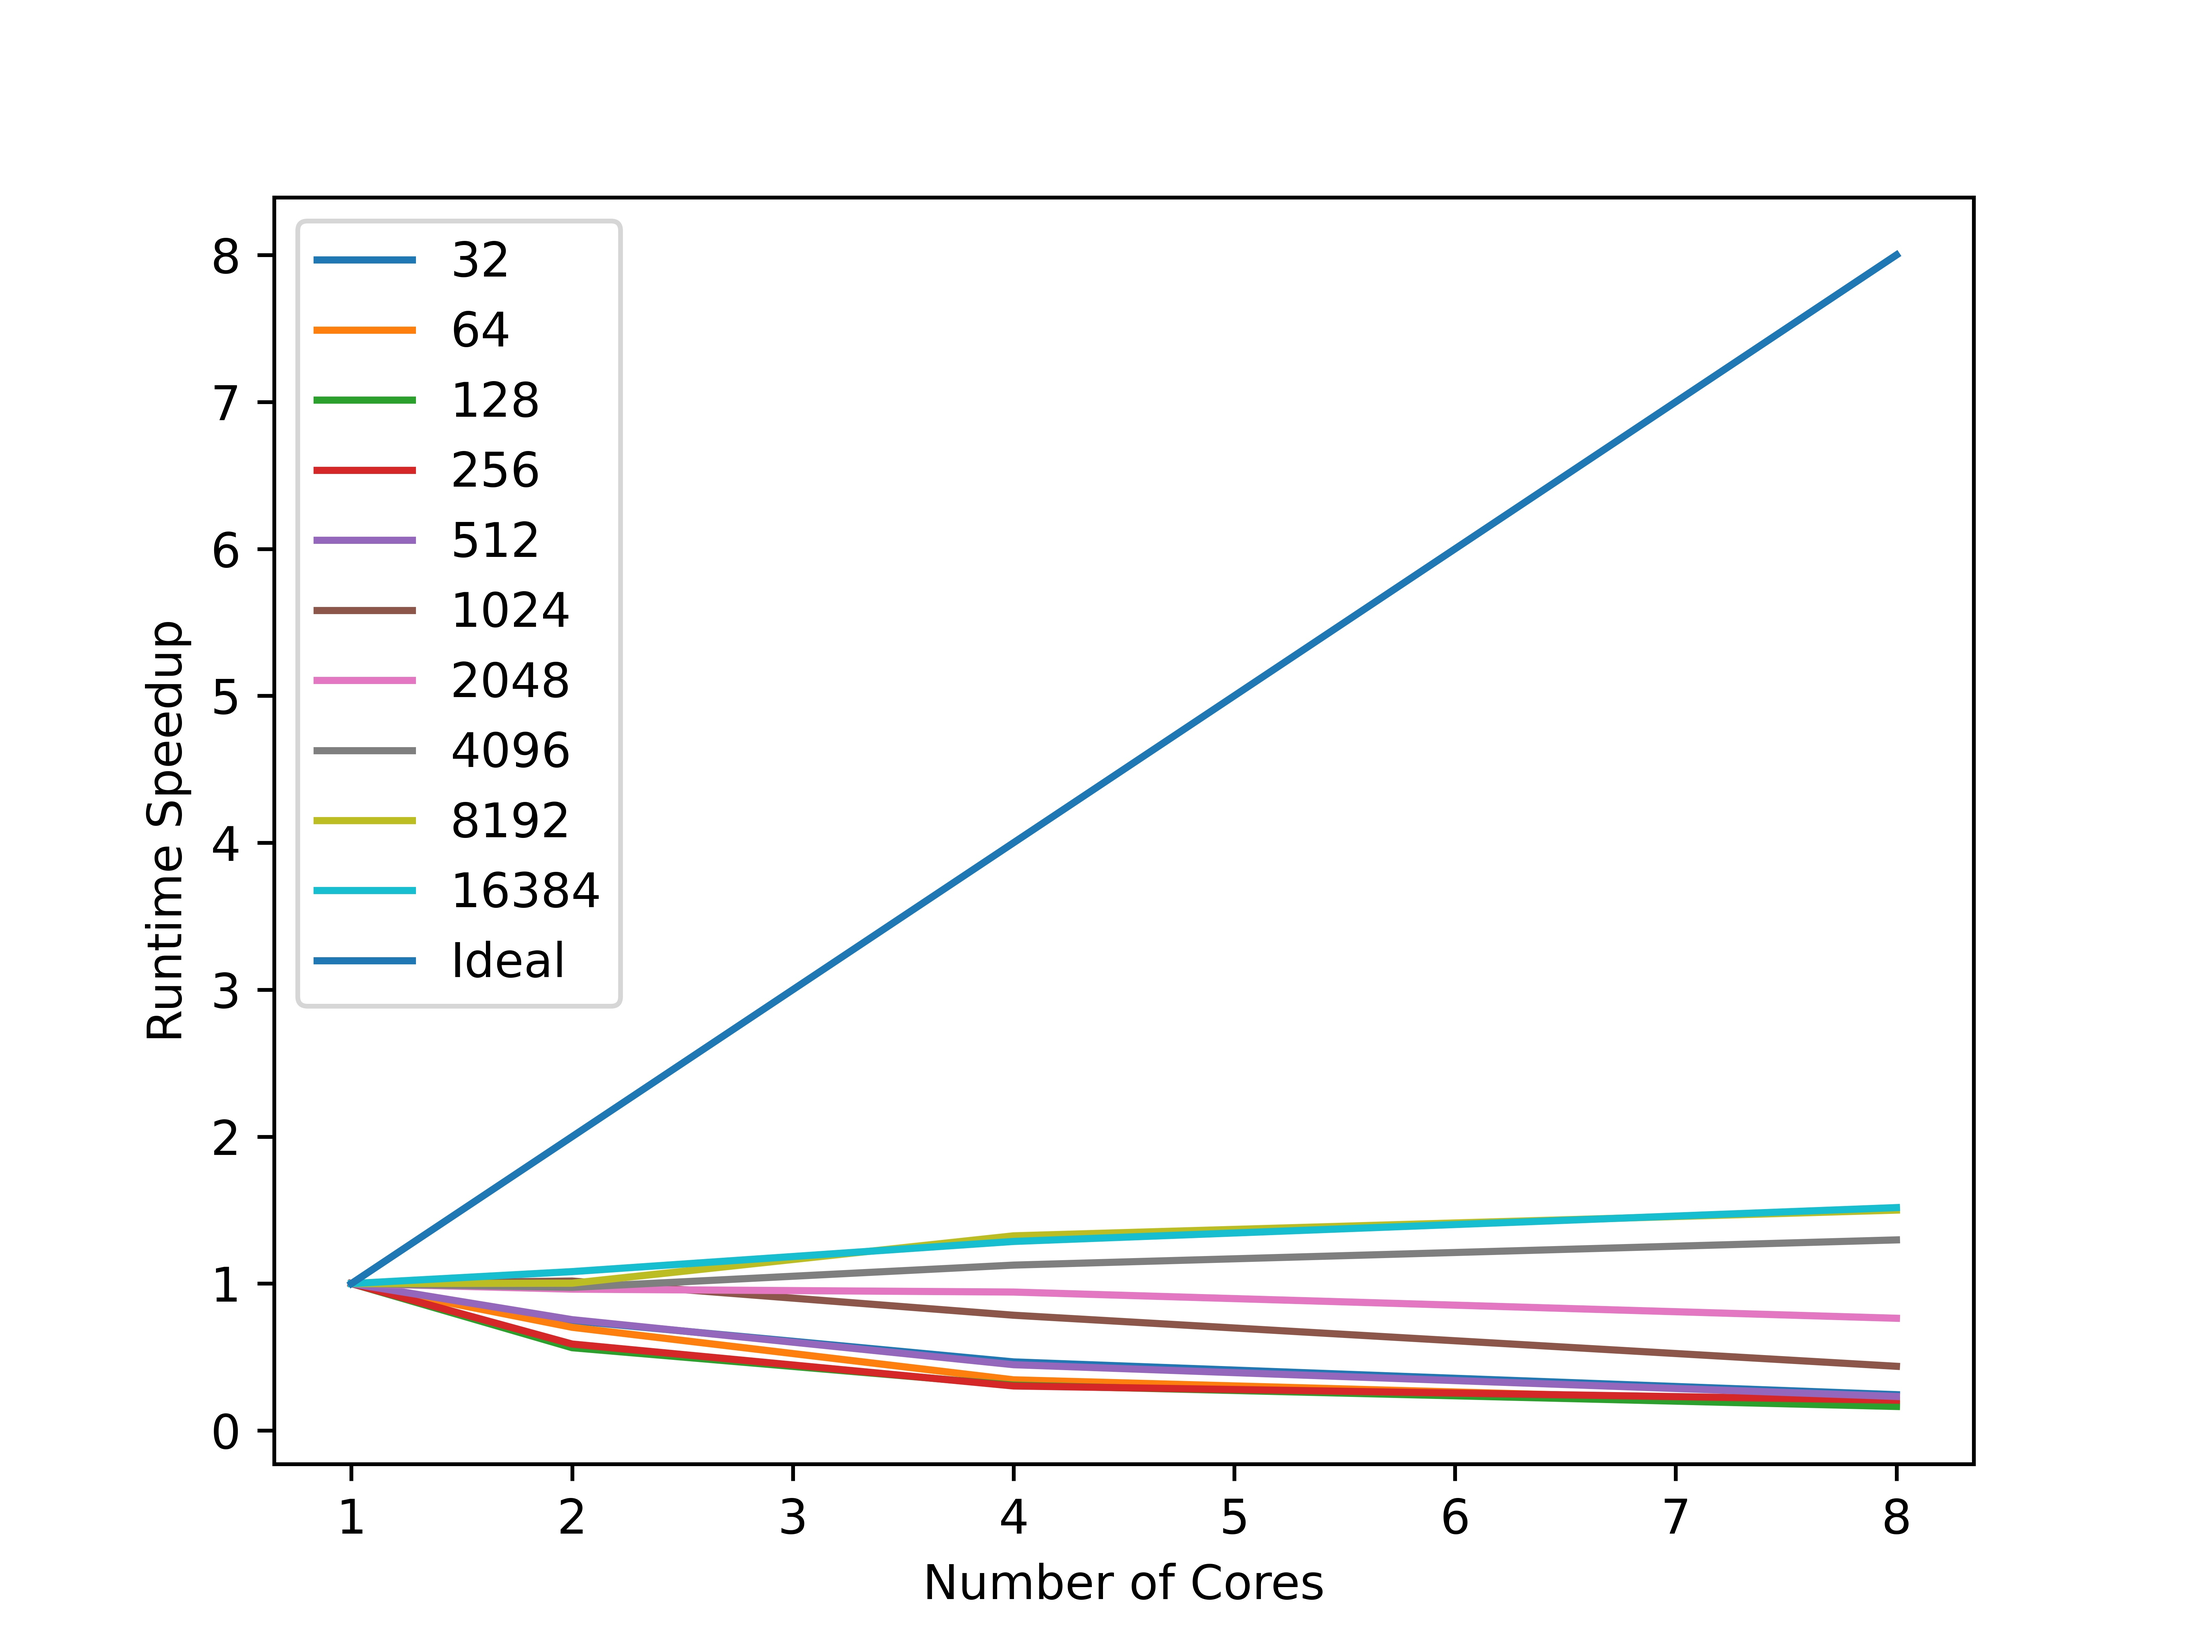
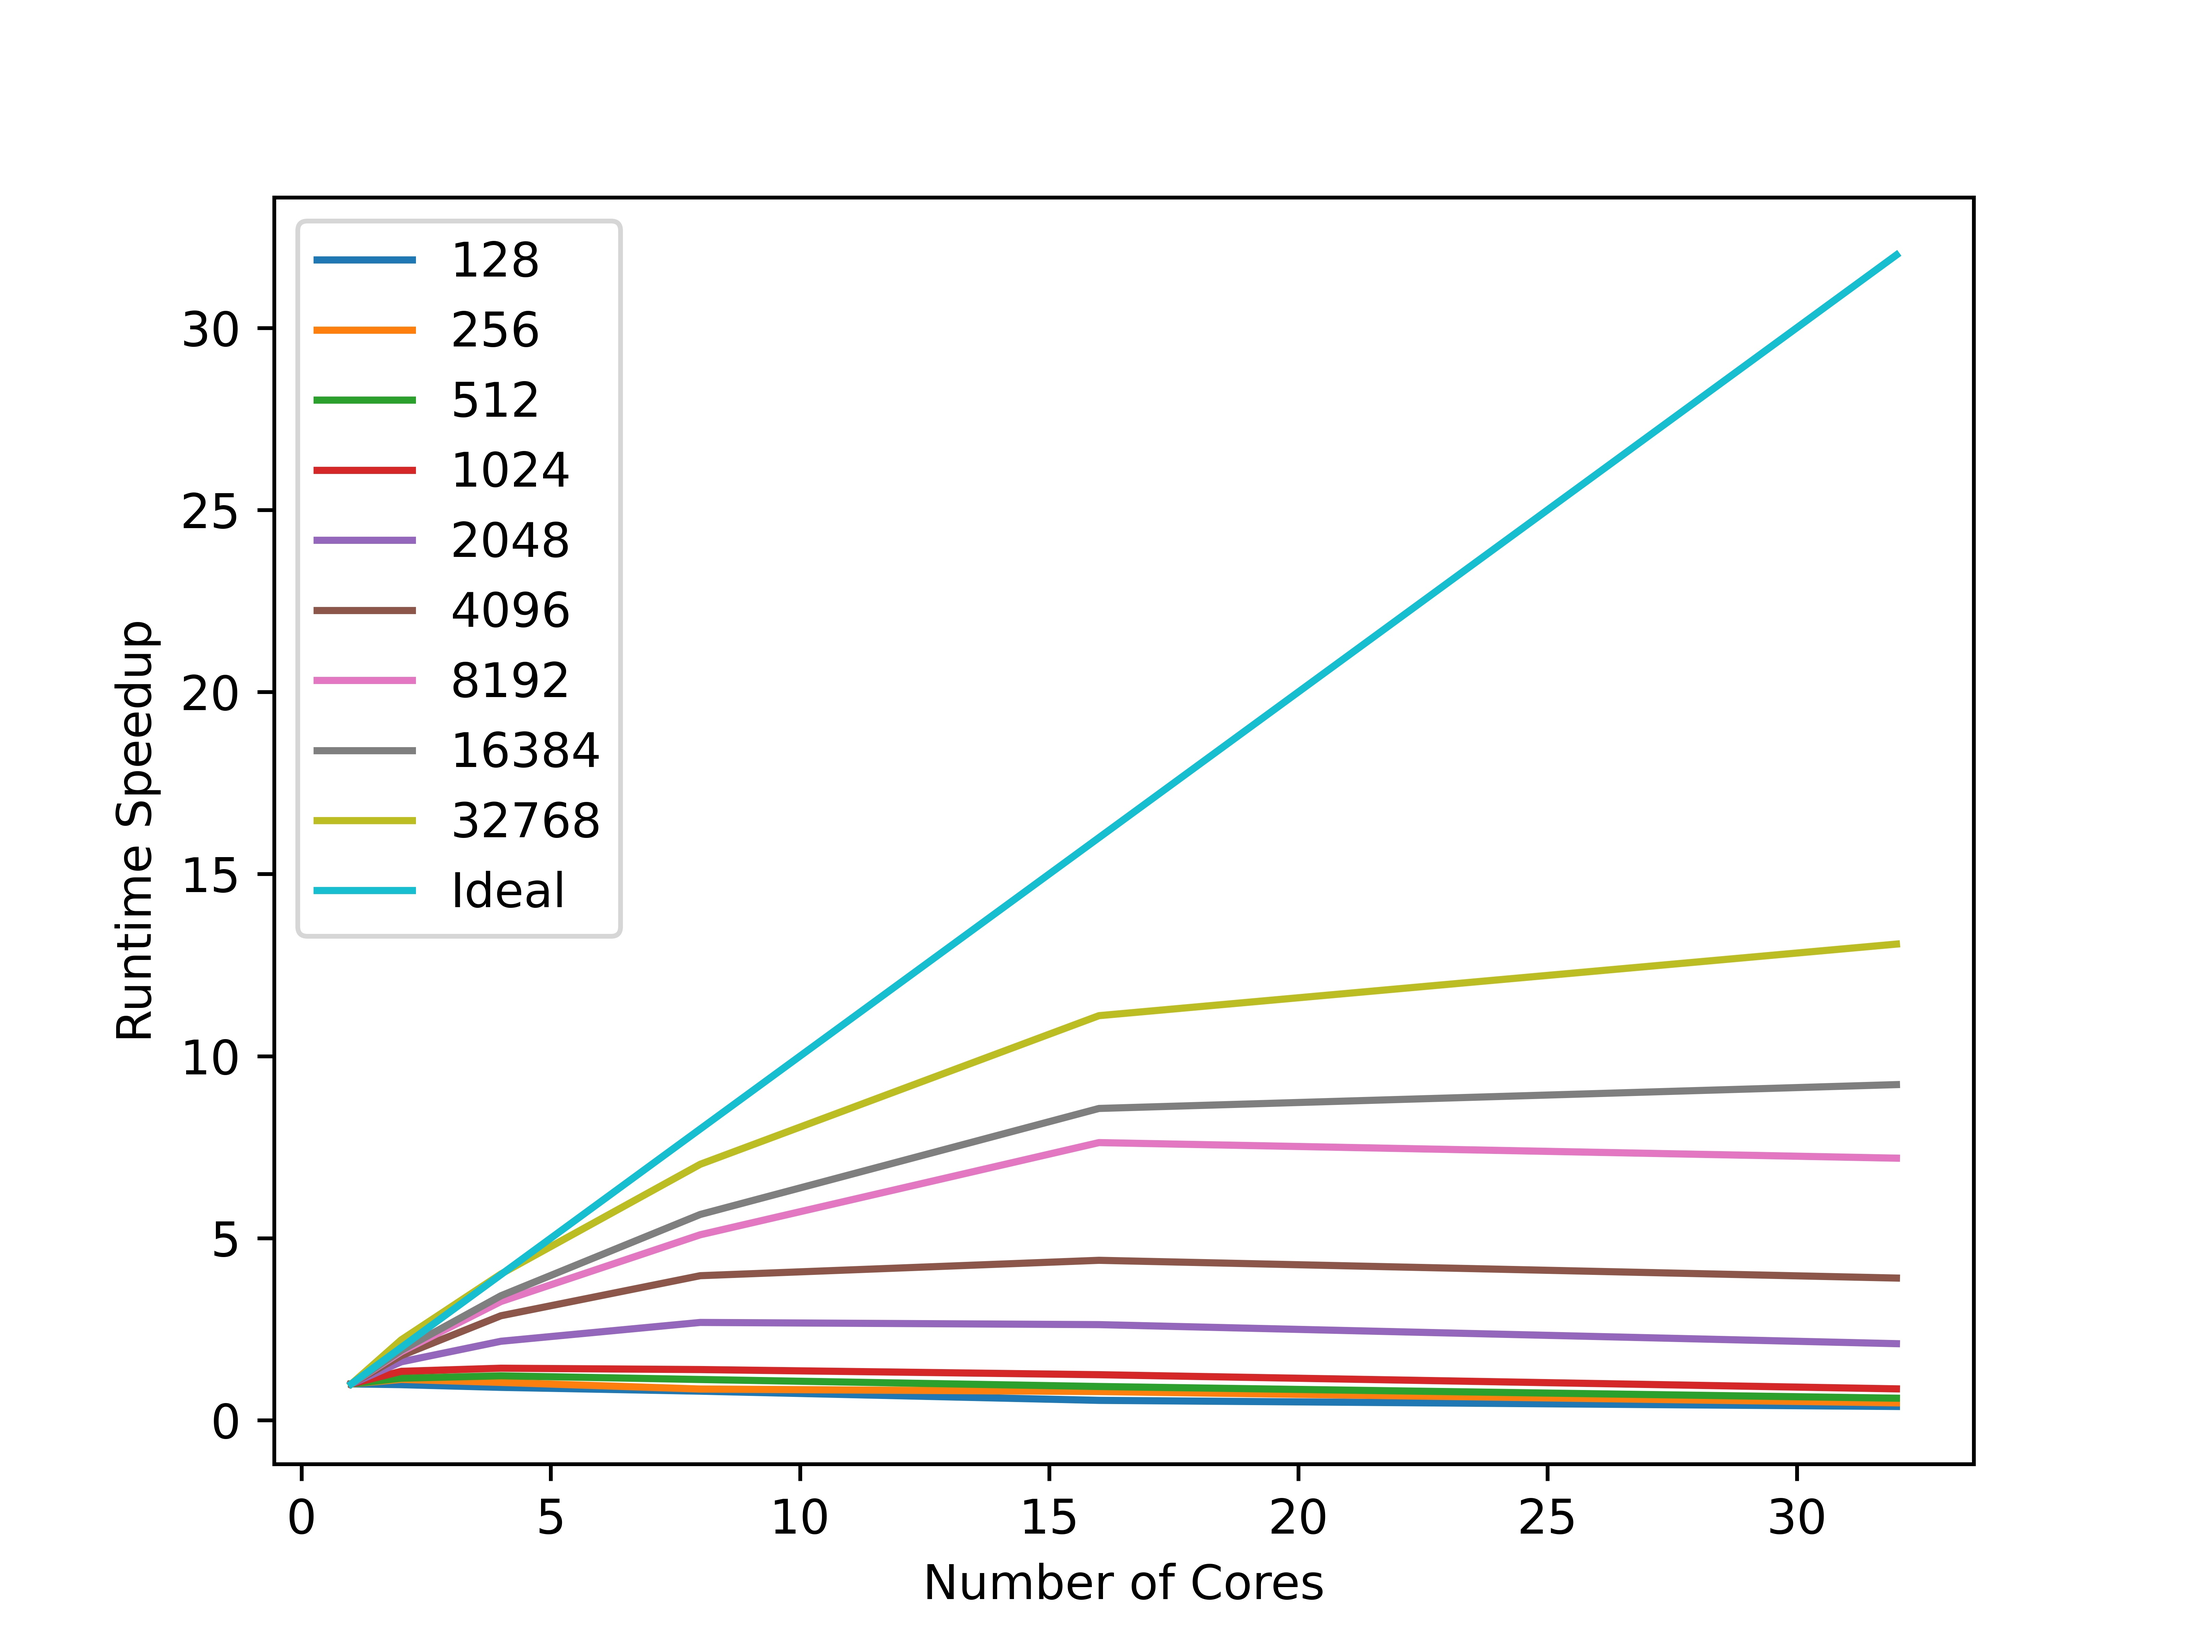
Updating MonteCarlo tester files

diff --git a/TesterFiles/MonteCarlo/MonteCarlo_Tester.py b/TesterFiles/MonteCarlo/MonteCarlo_Tester.py
@@ -4,12 +4,22 @@ import numpy as np
 import time
 import sys
 
+#def monte_carlo(attempts):
+#    dots = np.square( np.random.rand(attempts,2) )
+#    hits = 0
+#    for pair in dots:
+#        if np.sum(pair) <= 1:
+#            hits += 1
+#    return hits
+
 def monte_carlo(attempts):
-    dots = np.square( np.random.rand(attempts,2) )
+    i = 0
     hits = 0
-    for pair in dots:
-        if np.sqrt( np.sum(pair) ) <= 1:
+    while i < attempts:
+        dots = np.random.rand(1,2)
+        if dots[0][0]**2 + dots[0][1]**2 <= 1:
             hits += 1
+        i += 1
     return hits
 
 
@@ -23,9 +33,12 @@ def gen_time_results(attempts, no_cores, strong_scaling):
     p = Pool(processes=no_cores)
     hits_list = p.starmap(monte_carlo, (send_list))
     p.close()
-    total_hits = np.sum(hits_list)
-    approx_pi = 4*total_hits/attempts
     finish = time.perf_counter()
+    total_hits = np.sum(hits_list)
+    if strong_scaling:
+        approx_pi = 4*total_hits/attempts
+    else:
+        approx_pi = 4*total_hits/(attempts*no_cores)
     print(f"Estimation: {approx_pi}")
     time_taken = round(finish-start,10)
     print(f"Time: {time_taken}\n")
@@ -35,8 +48,8 @@ def gen_time_results(attempts, no_cores, strong_scaling):
 def main():
     attempts_list = [10**n for n in range(1,9)]
     core_list = [2**i for i in range(6)]
-    time_df = pd.DataFrame(columns=core_list)
     for scaling_type in [True, False]:
+        time_df = pd.DataFrame(columns=core_list)
         for attempts in attempts_list:
             print(f"Attempts = 10^{int(np.log10(attempts))}")
             new_times = []
@@ -53,10 +66,11 @@ def main():
         time_df = time_df.sort_index()
         time_df = time_df.groupby(time_df.index).mean()
         print(f"\nTimes after ordering and mean:\n{time_df}")
-        speedup_df = time_df.apply(lambda x: x.iloc[0]/x, axis=1, result_type='expand')
         if scaling_type:
+            speedup_df = time_df.apply(lambda x: x.iloc[0]/x, axis=1, result_type='expand')
             ideal_df = pd.DataFrame([core_list],columns=core_list,index=["Ideal"])
         else:
+            speedup_df = time_df.apply(lambda x: x/x.iloc[0], axis=1, result_type='expand')
             ideal_df = pd.DataFrame([[1 for _ in range(6)]],columns=core_list,index=["Ideal"])
         print(f"\nIdeal:\n{ideal_df}")
         speedup_df = speedup_df.append( ideal_df )

diff --git a/TesterFiles/MonteCarlo/read_finished_times.py b/TesterFiles/MonteCarlo/read_finished_times.py
@@ -4,6 +4,7 @@ program_type = "strong"
 #program_type = "weak"
 
 core_list = [2**j for j in range(6)]
+weak_list = [1 for _ in range(6)]
 
 time_df = pd.read_pickle(f"time_df_{program_type}_scaling.pkl")
 print(time_df)
@@ -11,8 +12,12 @@ print(time_df)
 time_df = time_df.sort_index()
 time_df = time_df.groupby(time_df.index).mean()
 
-speedup_df = time_df.apply(lambda x: x.iloc[0]/x, axis=1, result_type='expand')
-ideal_df = pd.DataFrame([core_list],columns=core_list,index=["Ideal"])
+if program_type == "strong":
+    speedup_df = time_df.apply(lambda x: x.iloc[0]/x, axis=1, result_type='expand')
+    ideal_df = pd.DataFrame([core_list],columns=core_list,index=["Ideal"])
+elif program_type == "weak":
+    speedup_df = time_df.apply(lambda x: x/x.iloc[0], axis=1, result_type='expand')
+    ideal_df = pd.DataFrame([weak_list],columns=core_list,index=["Ideal"])
 
 speedup_df = speedup_df.append( ideal_df )
 

diff --git a/TesterFiles/MonteCarlo/Gen_speedup_graph.py b/TesterFiles/MonteCarlo/Gen_speedup_graph.py
@@ -1,18 +1,24 @@
 from matplotlib import pyplot as plt
 import pandas as pd
 
-program_type = "strong"
-#program_type = "weak"
+#program_type = "strong"
+program_type = "weak"
 
 speedup_df = pd.read_pickle(f"speedup_df_{program_type}_scaling.pkl")
 print(speedup_df)
+
+if program_type == "weak":
+    speedup_df = speedup_df.drop([1,2,3,4])
 
 speedup_df = speedup_df.T
 print(speedup_df)
 
 speedup_df.plot()
 plt.xlabel("Number of Cores")
-plt.ylabel("Runtime Speedup")
+if program_type == "strong":
+    plt.ylabel("Runtime Speedup")
+elif program_type == "weak":
+    plt.ylabel("Runtime")
 plt.legend()
 #plt.show()
 plt.savefig(f"montecarlo_speedup_{program_type}_scaling.jpeg", dpi=1000)

diff --git a/TesterFiles/Multiprocessing/Gen_Speedup_Graph.py b/TesterFiles/Multiprocessing/Gen_Speedup_Graph.py
@@ -7,6 +7,9 @@ program_type = "lapack"
 speedup_df = pd.read_pickle(f"speedup_df_{program_type}.pkl")
 print(speedup_df)
 
+speedup_df = speedup_df.drop([32,64])
+print(speedup_df)
+
 speedup_df = speedup_df.T
 print(speedup_df)
 

diff --git a/TesterFiles/Multiprocessing/read_unfinished_times.py b/TesterFiles/Multiprocessing/read_unfinished_times.py
@@ -1,7 +1,7 @@
 import pandas as pd
 
-#program_type = "lapack"
-program_type = "myfunc"
+program_type = "lapack"
+#program_type = "myfunc"
 
 core_list = [2**j for j in range(6)]
 
